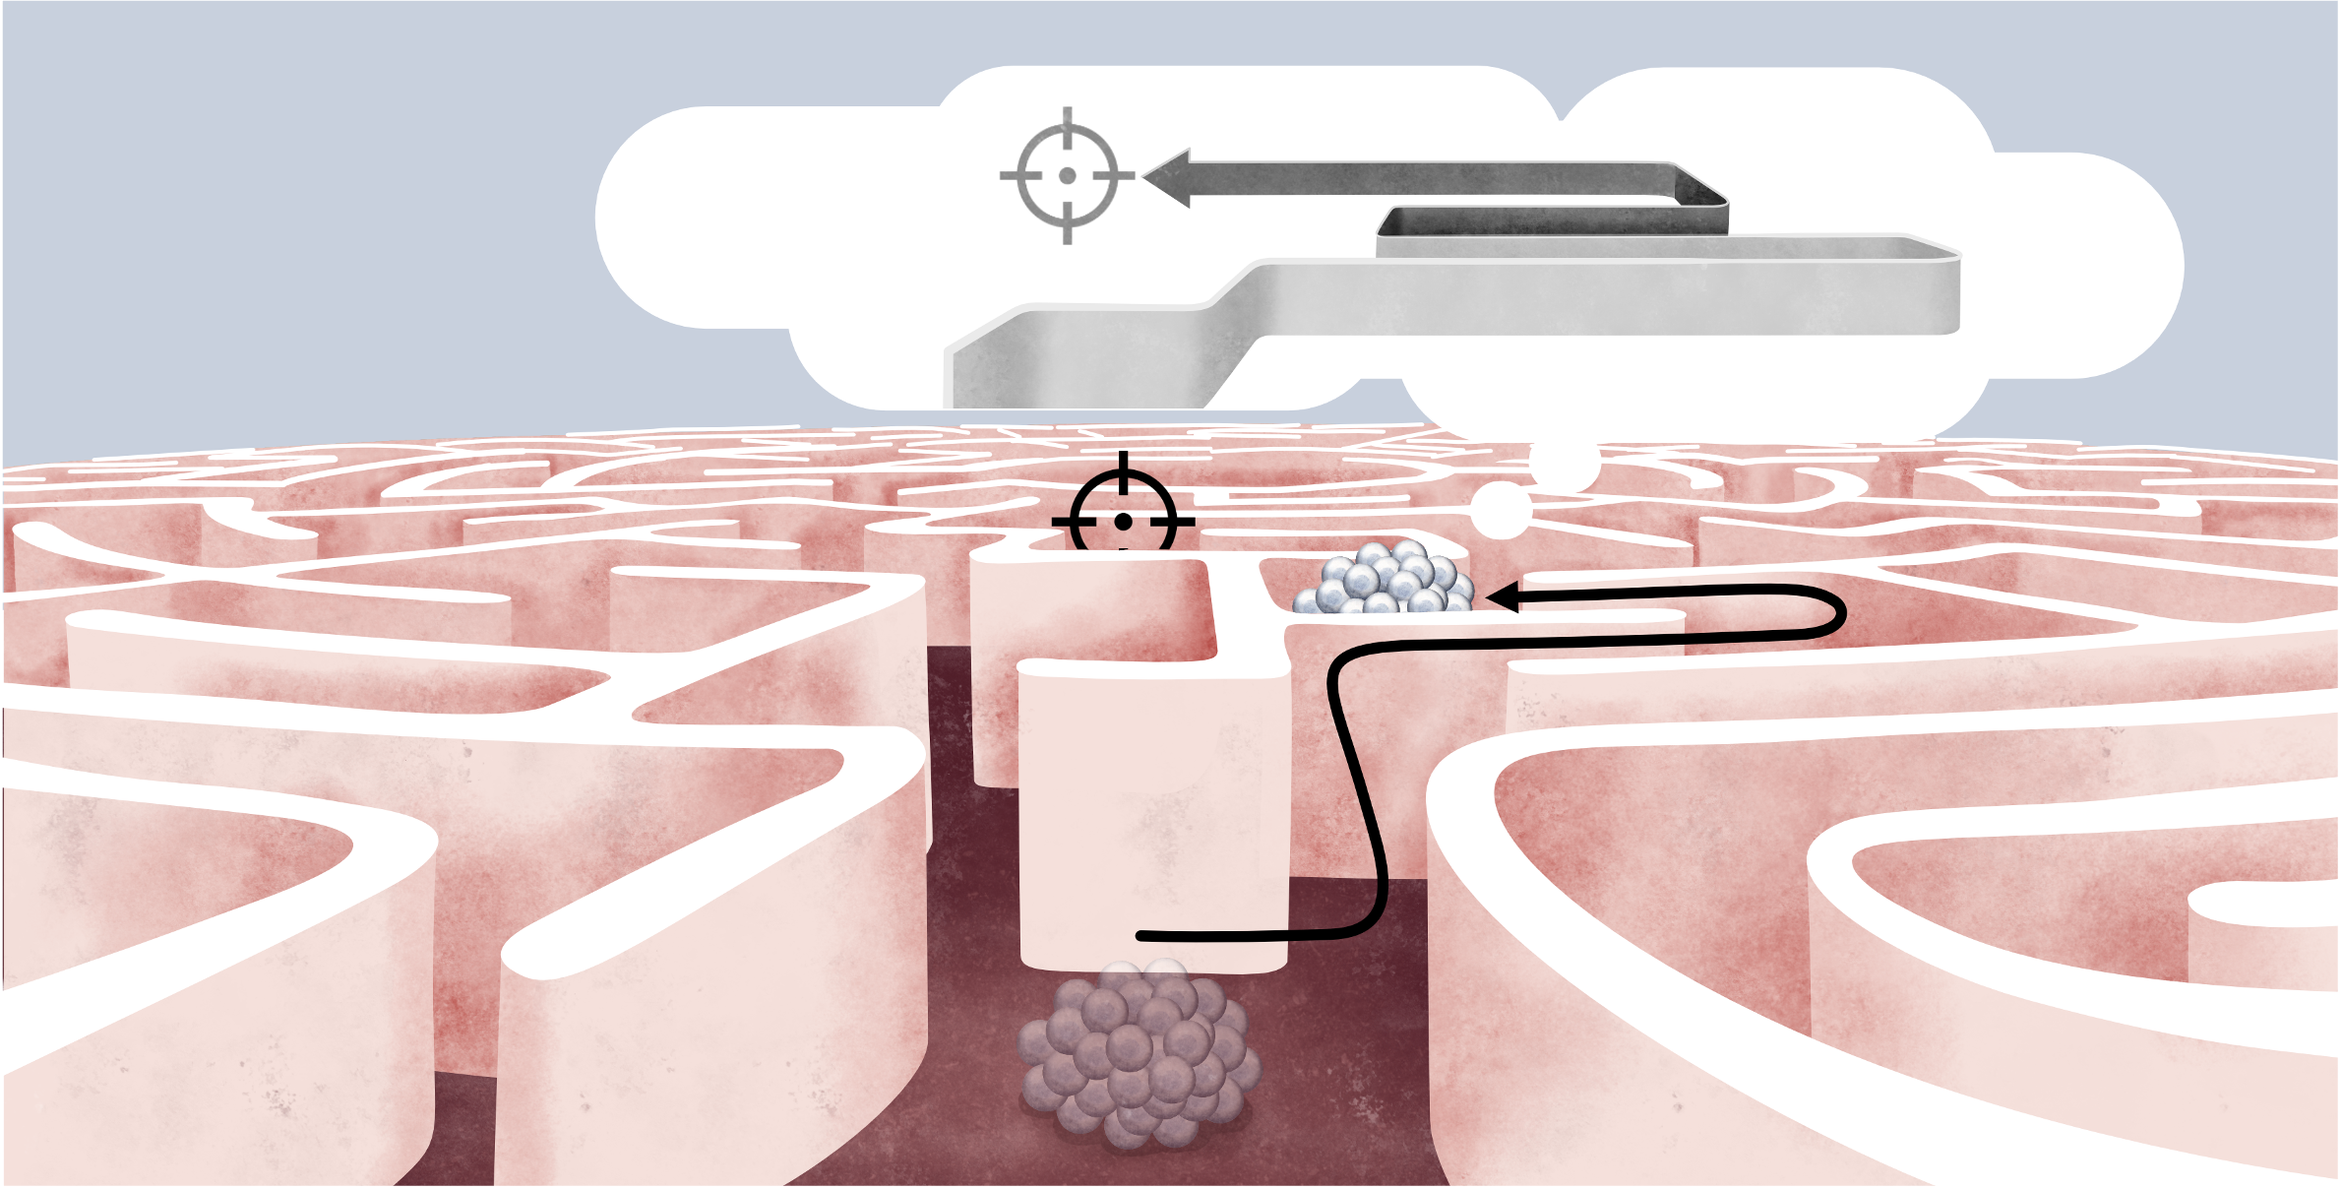
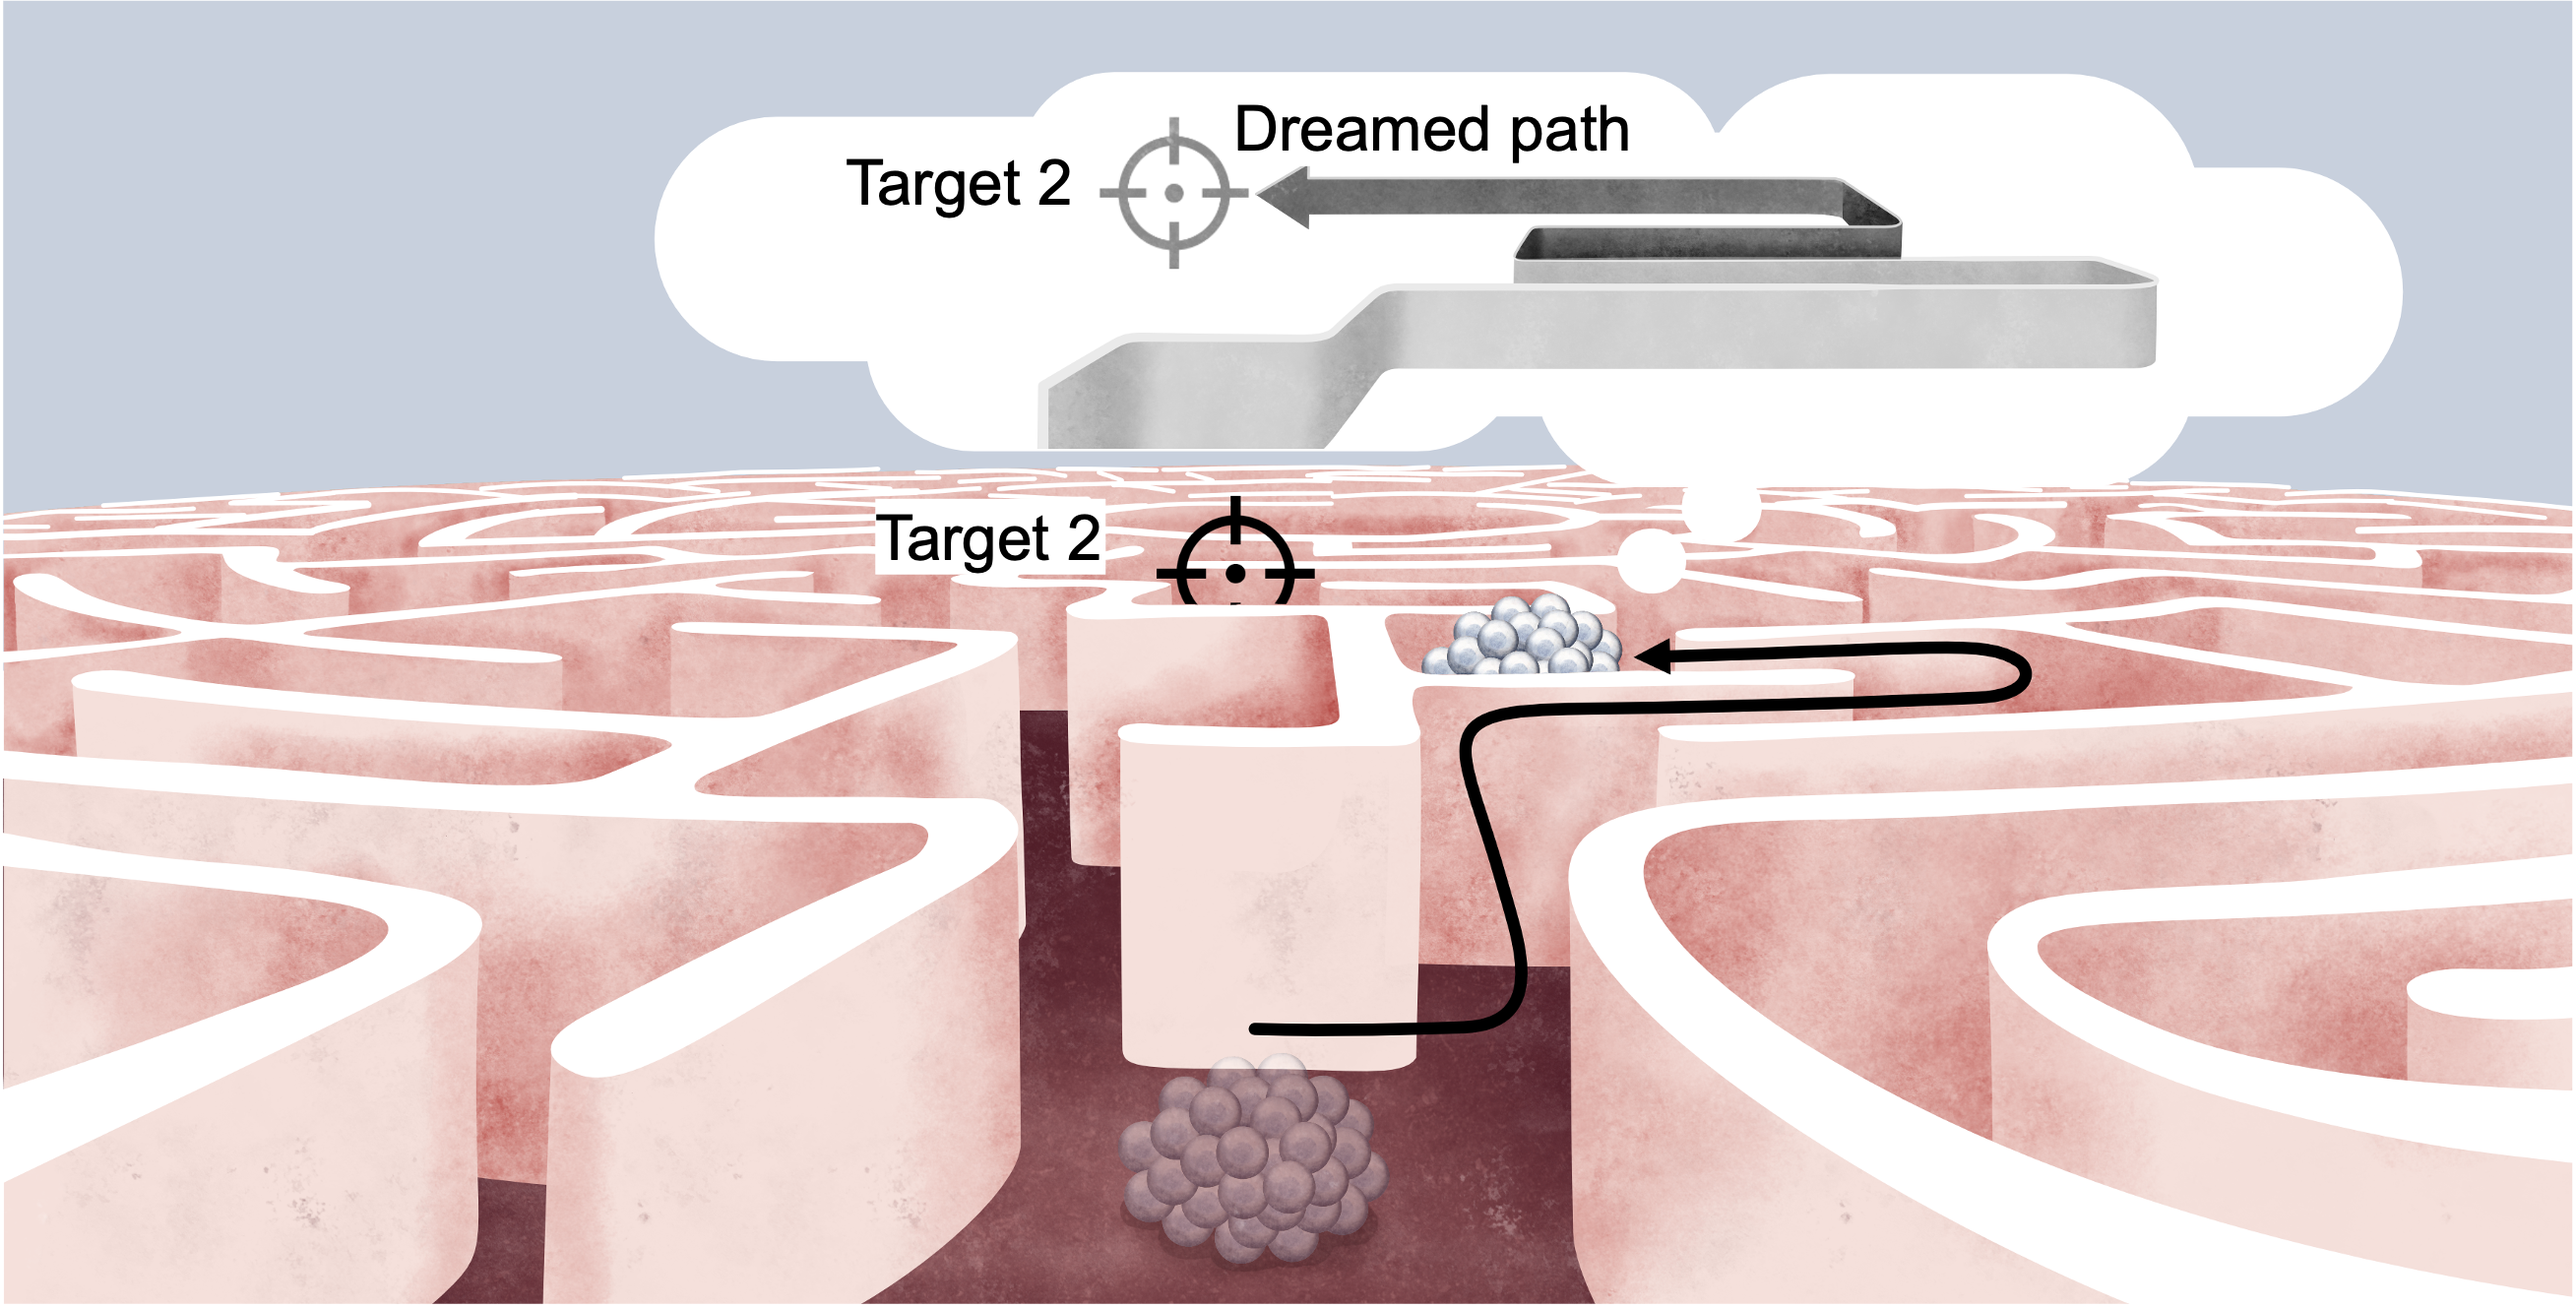
Shape Fromaing

Changed region(s): [[0.3422, 0.3675, 0.4355, 0.4594], [0.4666, 0.0613, 0.6532, 0.1225], [0.3111, 0.1225, 0.4355, 0.1838]]

diff --git a/README.md b/README.md
@@ -14,8 +14,7 @@ Schematic of the experimental setup, showcasing an artificial vascular channel w
 
 ![Figure 2](results/Figure%201g.png)
 ### **Figure 2**
-Microrobot agent executes the optimal action, successfully reaches Target 1, and proceeds towards Target 2 using a newly imagined path.
-
+The microrobot envisions multiple potential paths towards a target in a dreamed environment, allowing it to 'dream' and train on various possible scenarios simultaneously. a recurrent 'dream' in the latent space 
 
 ## Demonstration GIFs
 Below are key demonstrations from our research:
@@ -56,14 +55,15 @@ Active and passive shape-shifting of a microrobot navigating obstacles in a micr
 ![Movie S7](results/Movie%20S7.gif)
 
 
-## Credits & Dependencies
-This project utilizes the following frameworks and hardware components:
+## Credits & Dependencies  
+This project utilizes and adapts components from the following repositories:  
 
-- **DreamerV3** – A model-based reinforcement learning algorithm used for training the microrobot control policies.  
-  GitHub: [https://github.com/danijar/dreamerv3](https://github.com/danijar/dreamerv3)
+- **DreamerV3** – A model-based RL algorithm used for microrobot control.  
+GitHub: [https://github.com/danijar/dreamerv3](https://github.com/danijar/dreamerv3)  
 
 - **Segment Anything Model (SAM)** – A segmentation model used for microrobot detection and tracking.  
-  GitHub: [https://github.com/facebookresearch/segment-anything](https://github.com/facebookresearch/segment-anything)
+  GitHub: [https://github.com/facebookresearch/segment-anything](https://github.com/facebookresearch/segment-anything)  
 
-- **RSA_API** – Used for control the Tektronix function generator.  
-  Website: [https://github.com/tektronix/RSA_API](https://github.com/tektronix/RSA_API)
+- **RSA_API** – Integrated for function generator control.  
+  GitHub: [https://github.com/tektronix/RSA_API](https://github.com/tektronix/RSA_API)  
+
